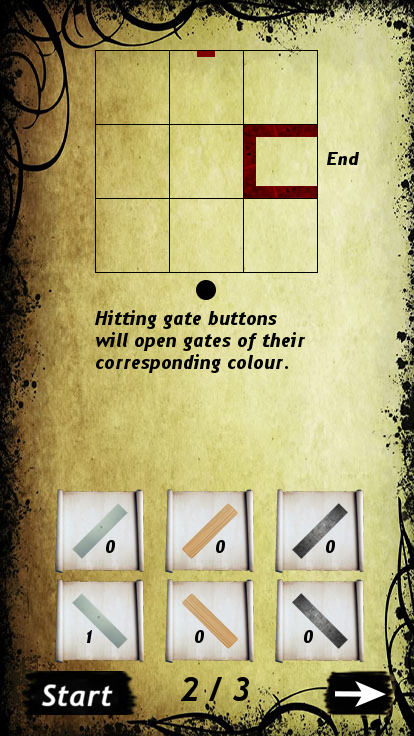
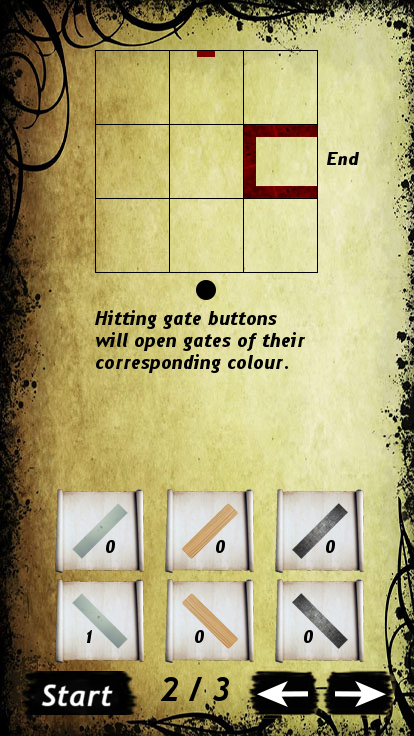
new Instruction2.png (fifth change by Daniel)

Changed region(s): [[0.3768, 0.9062, 0.7826, 1.0]]

diff --git a/game.js b/game.js
@@ -29,7 +29,6 @@ var intruction_one = new Image();
 var intruction_two = new Image();
 	intruction_two.src = 'images/instruction2.png';
 	intruction_two.addEventListener('load', init, false);
-	
 
 var intruction_three = new Image();
 	intruction_three.src = 'images/instruction3.png';
@@ -68,10 +67,10 @@ var btnBack = new Button(78, 149, 526, 569);
 var btnLevelOne = new Button(78, 149, 166, 209);
 var theBall = new Button(200, 221, 402, 422);
 var btnIntruction = new Button(97, 318, 640, 695);
-var btnIPOne_R= new Button(315, 386, 670, 714); //instruction page one button(right)
-var btnIPTwo_R= new Button(323, 392, 670, 714); //instruction page two button(right)
-var btnIPThree_R= new Button(320, 318, 669, 603); //instruction page three button(right)
-var btnIPTwo_L= new Button(245, 315, 670, 714); //instruction page two button(left)
+var btnIPOne_R = new Button(315, 386, 670, 714); //instruction page one button(right)
+var btnIPTwo_R = new Button(323, 392, 670, 714); //instruction page two button(right)
+var btnIPTwo_L = new Button(245, 315, 670, 714); //instruction page two button(left)
+var btnIPThree_R = new Button(320, 318, 669, 603); //instruction page three button(right)
 /** 
 	button positions end here
 */
@@ -112,7 +111,6 @@ function run(){
 }
 
 
-
 function Button(xL, xR, yT, yB){
 	this.xLeft = xL;
 	this.xRight = xR;
@@ -149,7 +147,7 @@ function mouseClicked(e){
         btnPlay = new Button(0,0,0,0); //disable play button
         btnIntruction = new Button(0,0,0,0);
         btnIPOne_R= new Button(0,0,0,0);
-		btnIPTwo_R= new Button(0,0,0,0);
+	    btnIPTwo_R= new Button(0,0,0,0);
 		btnIPThree_R= new Button(0,0,0,0);
 		btnIPTwo_L= new Button(0,0,0,0); 
 	}
@@ -184,30 +182,28 @@ function mouseClicked(e){
         instructionScreenOne();
         ClickButton.play();
 		
-		btnPlay = new Button(0,0,0,0);	
-		btnIntruction = new Button(0,0,0,0);
-        btnIPOne_R= new Button(0,0,0,0);
-        btnIPTwo_R= new Button(0,0,0,0);
-		btnIPThree_R= new Button(0,0,0,0);
-        btnIPTwo_L= new Button(0,0,0,0);
+		btnPlay = new Button(0,0,0,0); //disable play button
+        btnIntruction = new Button(0,0,0,0);
+        //btnIPOne_R= new Button(0,0,0,0);
+	    btnIPTwo_R = new Button(0,0,0,0);
+		//btnIPThree_R = new Button(0,0,0,0);
+		btnIPTwo_L = new Button(0,0,0,0); 
 		btnLevelOne = new Button(0,0,0,0);
     }
 	if(btnIPOne_R.checkClicked()){
         instructionScreenTwo();
         ClickButton.play();
 		
-		btnIPTwo_R= new Button(323, 392, 670, 714);
+		//btnIPTwo_R= new Button(323, 392, 670, 714);
     }
 	if(btnIPTwo_R.checkClicked()){
         instructionScreenThree();
         ClickButton.play();
     }
-	if(btnIPTwo_L.checkClicked()){
+	/*if(btnIPTwo_L.checkClicked()){
         instructionScreenOne();
-        ClickButton.play();
-		
-		
-    }
+        ClickButton.play();	
+    }*/
 	if(btnIPThree_R.checkClicked()){
         instructionScreentwo();
         ClickButton.play();
